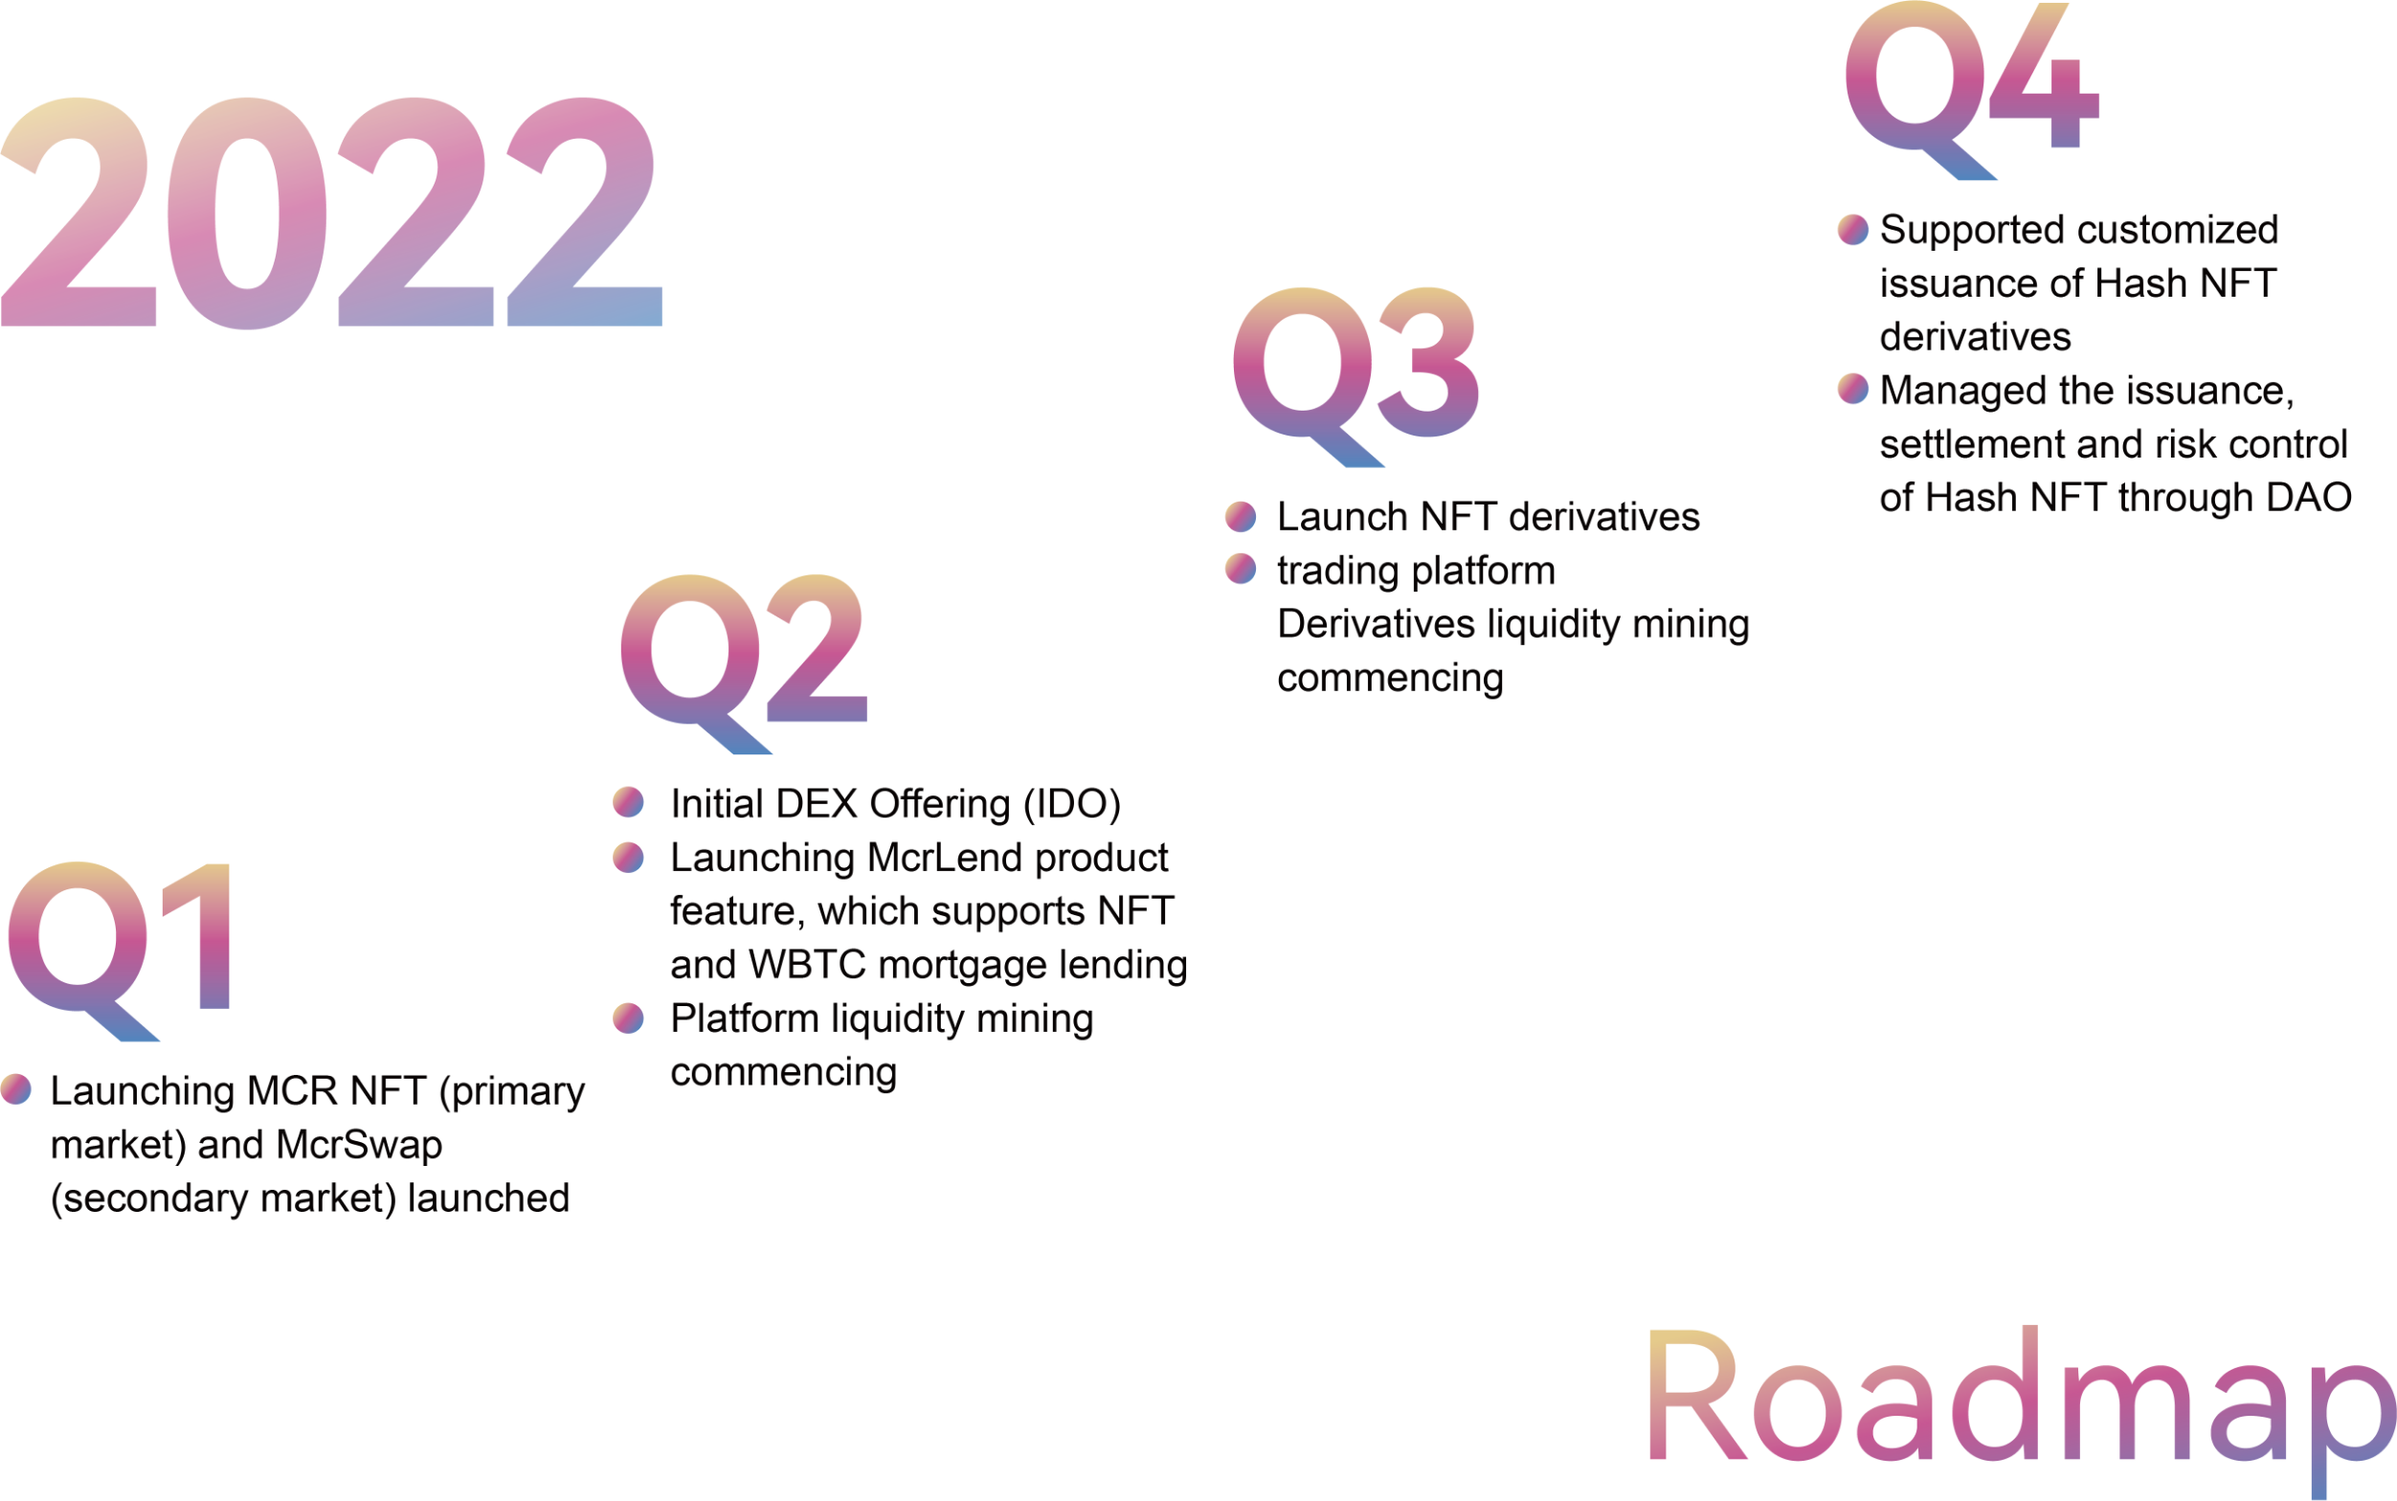
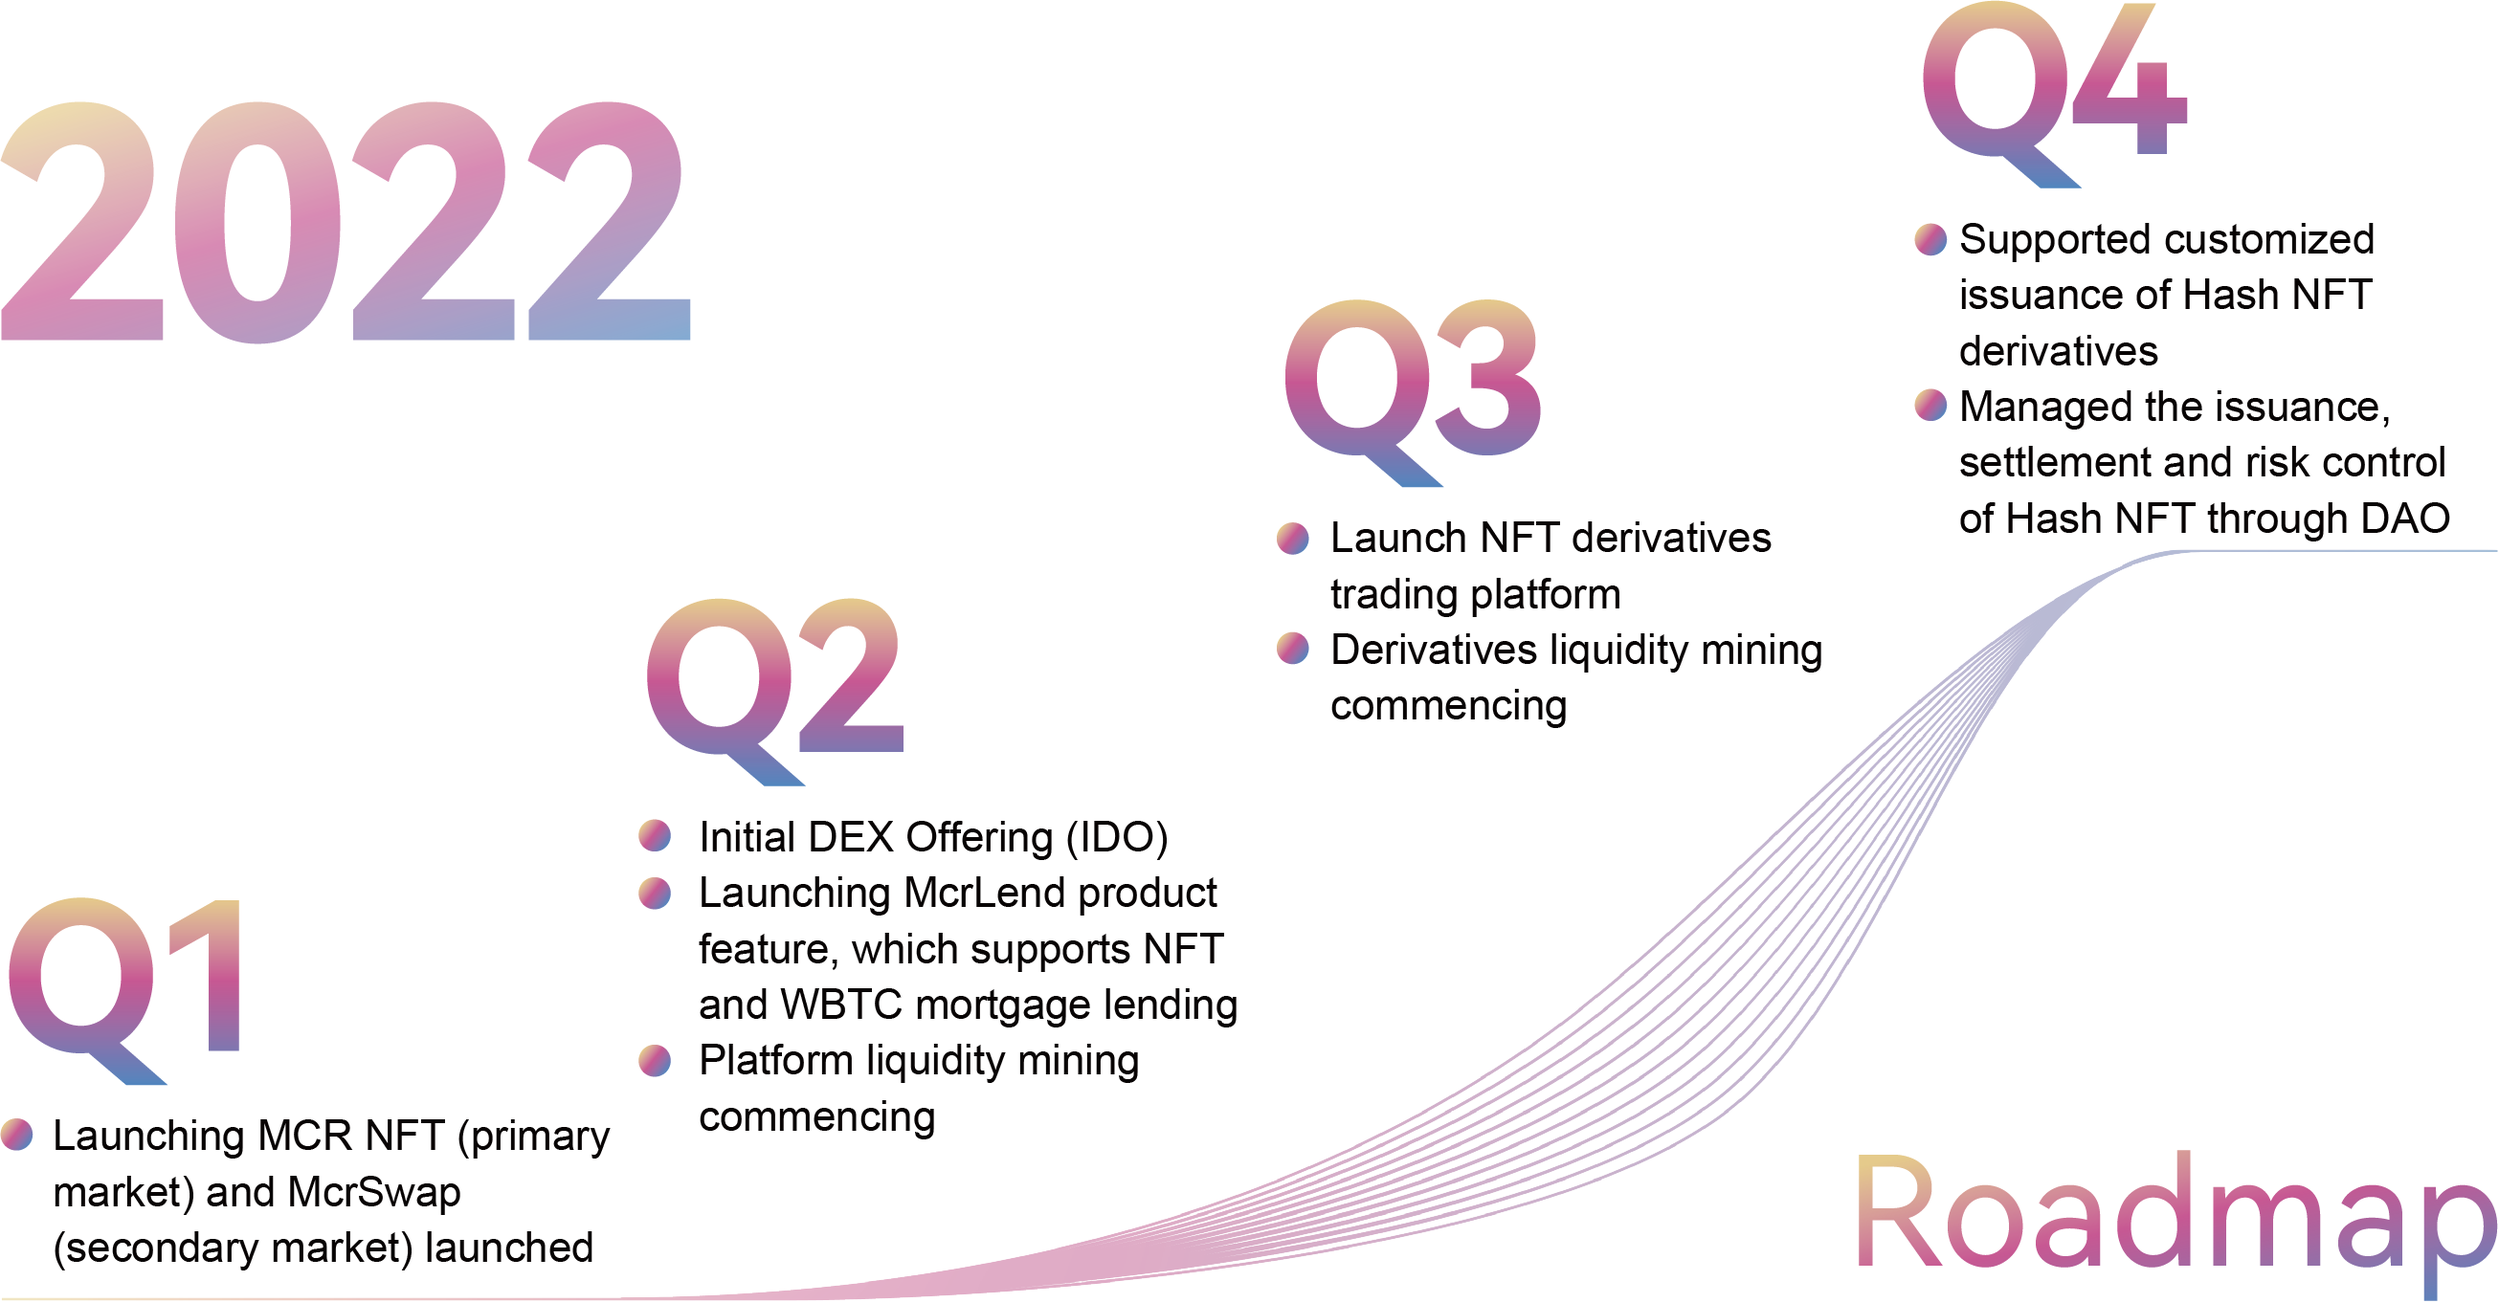
update home

diff --git a/src/pages/home/Team.tsx b/src/pages/home/Team.tsx
@@ -5,67 +5,69 @@ import cto from '@/assets/cto.png';
 import ctoava from '@/assets/cto-ava.png';
 import cmo from '@/assets/cmo.png';
 import cmoava from '@/assets/cmo-ava.jpeg';
-import cfa2 from '@/assets/cfa2.png';
+import cof from '@/assets/cof.png';
 import cfa2ava from '@/assets/cfa2-ava.png';
-import cfa from '@/assets/cfa.png';
-import cfaava from '@/assets/cfa-ava.png';
+import eco from '@/assets/cfa.png';
+import ecoava from '@/assets/cfa-ava.png';
 import styles from './Team.less';
 
 export default () => {
   return (
     <div className={styles.team}>
-      <div className={styles.block}>
-        <img src={ceo} className={styles.title} />
-        <img src={ceoava} className={styles.avatar} />
-        <span>
-          who is an early participant and contributor to the Bitcoin community, code contributor to the open source project LibBitcoin. developer and technical
-          expert with deep roots in the blockchain space and other IT technology sectors. Past experiences include: core developer of a pioneering public
-          blockchain project in 2016; P2P network architect and key developer of a Top video streaming provider; Founder and key developer of a distributed
-          computing and storage service provider; and contributor of series open-source projects on github.
-        </span>
-      </div>
+      <div className={styles.content}>
+        <div className={styles.block}>
+          <img src={ceo} className={styles.title} />
+          <img src={ceoava} className={styles.avatar} />
+          <span>
+            who is an early participant and contributor to the Bitcoin community, code contributor to the open source project LibBitcoin. developer and
+            technical expert with deep roots in the blockchain space and other IT technology sectors. Past experiences include: core developer of a pioneering
+            public blockchain project in 2016; P2P network architect and key developer of a Top video streaming provider; Founder and key developer of a
+            distributed computing and storage service provider; and contributor of series open-source projects on github.
+          </span>
+        </div>
 
-      <div className={styles.block}>
-        <img src={cto} className={styles.title} />
-        <img src={ctoava} className={styles.avatar} />
-        <span>
-          Mr.Ma graduated from Academy of Space Technology, Tsinghua University, but has diversified research experiences in NLP Algorithm, Deep Learning,
-          Simulations, Distributed System and Data Science. Mr.Ma is a senior architect in blockchain and distributed system with deep insight into the space,
-          who has blockchain-related development experience of more than 5 years and contributed for several open-source projects as an independent developer.
-        </span>
-      </div>
+        <div className={styles.block}>
+          <img src={cto} className={styles.title} />
+          <img src={ctoava} className={styles.avatar} />
+          <span>
+            Mr.Ma graduated from Academy of Space Technology, Tsinghua University, but has diversified research experiences in NLP Algorithm, Deep Learning,
+            Simulations, Distributed System and Data Science. Mr.Ma is a senior architect in blockchain and distributed system with deep insight into the space,
+            who has blockchain-related development experience of more than 5 years and contributed for several open-source projects as an independent developer.
+          </span>
+        </div>
 
-      <div className={styles.block}>
-        <img src={cmo} className={styles.title} />
-        <img src={cmoava} className={styles.avatar} />
-        <span>
-          Alex Parker is a former investment banker and passionate blockchain investor with more than 8 years of financial services experience. He specialized
-          in industrial and financial technology coverage. Alex has an MBA from the Wharton School of the University of Pennsylvania and a BS in Finance from
-          the University at Buffalo (SUNY).
-        </span>
-      </div>
+        <div className={styles.block}>
+          <img src={cmo} className={styles.title} />
+          <img src={cmoava} className={styles.avatar} />
+          <span>
+            Alex Parker is a former investment banker and passionate blockchain investor with more than 8 years of financial services experience. He specialized
+            in industrial and financial technology coverage. Alex has an MBA from the Wharton School of the University of Pennsylvania and a BS in Finance from
+            the University at Buffalo (SUNY).
+          </span>
+        </div>
 
-      <div className={styles.teamBlock}>
-        <img src={team} alt="" />
-      </div>
+        <div className={styles.teamBlock}>
+          <img src={team} alt="" />
+        </div>
 
-      <div className={styles.block}>
-        <img src={cfa2} className={styles.title} />
-        <img src={cfa2ava} className={styles.avatar} />
-        <span>
-          Northeastern University, majoring in finance and Infoamation System Management. Worked with the top 10 hedge fund in US, mainly engaged in equity
-          research and quantitative strategy. Worked as the VP of investment banking in top teir bank in US. With years of consulting experience in fintech
-          projects. Started to enter the blockchain industry in 2017, experienced onpublic block chain, Dapp, Defi, and NFT projects.
-        </span>
-      </div>
+        <div className={styles.block}>
+          <img src={cof} className={styles.title} />
+          <img src={cfa2ava} className={styles.avatar} />
+          <span>
+            Northeastern University, majoring in finance and Infoamation System Management. Worked with the top 10 hedge fund in US, mainly engaged in equity
+            research and quantitative strategy. Worked as the VP of investment banking in top teir bank in US. With years of consulting experience in fintech
+            projects. Started to enter the blockchain industry in 2017, experienced onpublic block chain, Dapp, Defi, and NFT projects.
+          </span>
+        </div>
 
-      <div className={styles.block}>
-        <img src={cfa} className={styles.title} />
-        <img src={cfaava} className={styles.avatar} />
-        <span>
-          Rilke LI, CFA, BS in physics at PKU and MF candidate in finance at SJTU. Worked in China's top securities firms such as cicc and htsc, focused on
-          product structuring. Mr.Li has invested in many early star blockchain projects and earned dozens of returns in blockchain investment.
-        </span>
+        <div className={styles.block}>
+          <img src={eco} className={styles.title} />
+          <img src={ecoava} className={styles.avatar} />
+          <span>
+            Rilke LI, CFA, BS in physics at PKU and MF candidate in finance at SJTU. Worked in China's top securities firms such as cicc and htsc, focused on
+            product structuring. Mr.Li has invested in many early star blockchain projects and earned dozens of returns in blockchain investment.
+          </span>
+        </div>
       </div>
     </div>
   );

diff --git a/src/layouts/header.tsx b/src/layouts/header.tsx
@@ -11,6 +11,7 @@ export default () => {
 
   const deltaY = useRef(0);
   const hiddenRef = useRef(false);
+  const [ontop, setOntop] = useState(true);
 
   useEffect(() => {
     if (mouseWheel > deltaY.current) {
@@ -21,6 +22,12 @@ export default () => {
       if (hidden) {
         setHidden(false);
       }
+    }
+
+    if (window.scrollY === 0) {
+      !ontop && setOntop(true);
+    } else {
+      ontop && setOntop(false);
     }
 
     deltaY.current = mouseWheel;
@@ -50,13 +57,14 @@ export default () => {
     <div
       className={classnames(styles.header, {
         [styles.hidden]: hidden,
+        [styles.ontop]: ontop,
       })}
     >
       <NavLink to="/" className={styles.logoLink}>
-        Merlin Protocal
+        Merlin Protocol
       </NavLink>
 
-      <div className={styles.menus}>
+      {/* <div className={styles.menus}>
         <NavLink to="/" className={classnames(styles.menu, styles.menuHome)} exact activeClassName={styles.active}>
           Home
         </NavLink>
@@ -68,7 +76,7 @@ export default () => {
         </NavLink>
       </div>
 
-      <div className={styles.account}>0x123...1234</div>
+      <div className={styles.account}>0x123...1234</div> */}
     </div>
   );
 };

diff --git a/src/pages/home/Banner.tsx b/src/pages/home/Banner.tsx
@@ -1,4 +1,5 @@
 import sologn from '@/assets/sologn.png';
+import sologn2 from '@/assets/sologn-2.png';
 import styles from './banner.less';
 
 export default () => {
@@ -6,7 +7,8 @@ export default () => {
     <div className={styles.banner}>
       <div className={styles.content}>
         <img src={sologn} alt="sologn" className={styles.sologn} />
-        {/* <span className={styles.title}>Merlin Protocol</span> */}
+        <img src={sologn2} alt="sologn" className={styles.sologn2} />
+
         <p className={styles.text}>
           Merlin Protocol is a Defi infrastructure protocol for mining hash power and its derivatives. This protocol digitizes real-world cryptocurrency hash
           power assets and introduces them into the Defi ecosystem through a hash power oracle and a decentralized settlement system.

diff --git a/src/pages/home/Roadmap.less b/src/pages/home/Roadmap.less
@@ -4,10 +4,15 @@
 
   margin: 0 auto;
 
-  background: url(~@/assets/roadmap.png), url(~@/assets/roadmap-bg.png);
-  background-size: 1252px 675px, contain;
+  // background: url(~@/assets/roadmap.png), url(~@/assets/roadmap-bg.png);
+  // background-size: 1252px 675px, contain;
+  // background-repeat: no-repeat;
+  // background-position: center, bottom 125px right 0px;
+
+  background: url(~@/assets/roadmap.png);
+  background-size: 1252px 675px;
   background-repeat: no-repeat;
-  background-position: center, bottom 125px right 0px;
+  background-position: center;
 
   padding-bottom: 53px;
 }

diff --git a/src/pages/home/Team.less b/src/pages/home/Team.less
@@ -1,20 +1,18 @@
 .team {
-  width: 1512px;
-
-  padding-top: 200px;
-  padding-left: 130px;
-  padding-right: 130px;
-  margin: 0 auto;
-
   text-align: center;
 
-  display: flex;
-  flex-direction: row;
-  flex-wrap: wrap;
-  justify-content: space-between;
-  row-gap: 60px;
+  .content {
+    width: 1252px;
+    margin: 200px auto 0;
 
-  padding-bottom: 200px;
+    display: flex;
+    flex-direction: row;
+    flex-wrap: wrap;
+    justify-content: space-between;
+    row-gap: 60px;
+
+    padding-bottom: 200px;
+  }
 
   .block {
     position: relative;

diff --git a/src/pages/home/index.less b/src/pages/home/index.less
@@ -1,6 +1,6 @@
 .home {
   // min-height: 100vh;
-  min-width: 1512px;
+  // min-width: 1512px;
   background-color: #fff;
 }
 
@@ -22,3 +22,9 @@
   background: linear-gradient(to top, rgba(0, 0, 0, 1), rgba(0, 0, 0, 0));
   // background: url(~@/assets/home-bg2.png) no-repeat center;
 }
+
+// @media screen and (max-width: 1440px) {
+//   .home {
+//     min-width: 1440px;
+//   }
+// }

diff --git a/src/pages/home/Banner.less b/src/pages/home/Banner.less
@@ -13,8 +13,11 @@
 
   .sologn {
     width: 986px;
-    margin-top: 275px;
-    // margin-left: 105px;
+    margin-top: 273px;
+  }
+  .sologn2 {
+    width: 1098px;
+    margin-top: 50px;
   }
   // .title {
   //   .lg-font;
@@ -32,7 +35,7 @@
     color: #fff;
     line-height: 25px;
     // margin-left: 105px;
-    margin-top: 46px;
+    margin-top: 55px;
 
     width: 1010px;
   }

diff --git a/.umirc.ts b/.umirc.ts
@@ -1,6 +1,10 @@
 import { defineConfig } from 'umi';
 
 export default defineConfig({
+  analytics: {
+    ga: 'G-CZFW2SDT2D',
+  },
+
   nodeModulesTransform: {
     type: 'none',
   },

diff --git a/src/layouts/footer.less b/src/layouts/footer.less
@@ -1,6 +1,6 @@
 .footer {
   width: 100%;
-  height: 100px;
+  height: 70px;
   margin: 0 auto;
 
   display: flex;

diff --git a/src/pages/home/Technical.less b/src/pages/home/Technical.less
@@ -1,5 +1,5 @@
 .technical {
-  height: 936px;
+  height: 848px;
   text-align: center;
   margin-top: 100px;
 

diff --git a/src/layouts/header.less b/src/layouts/header.less
@@ -100,3 +100,7 @@
 .hidden {
   top: -70px;
 }
+
+.ontop {
+  background: transparent;
+}
